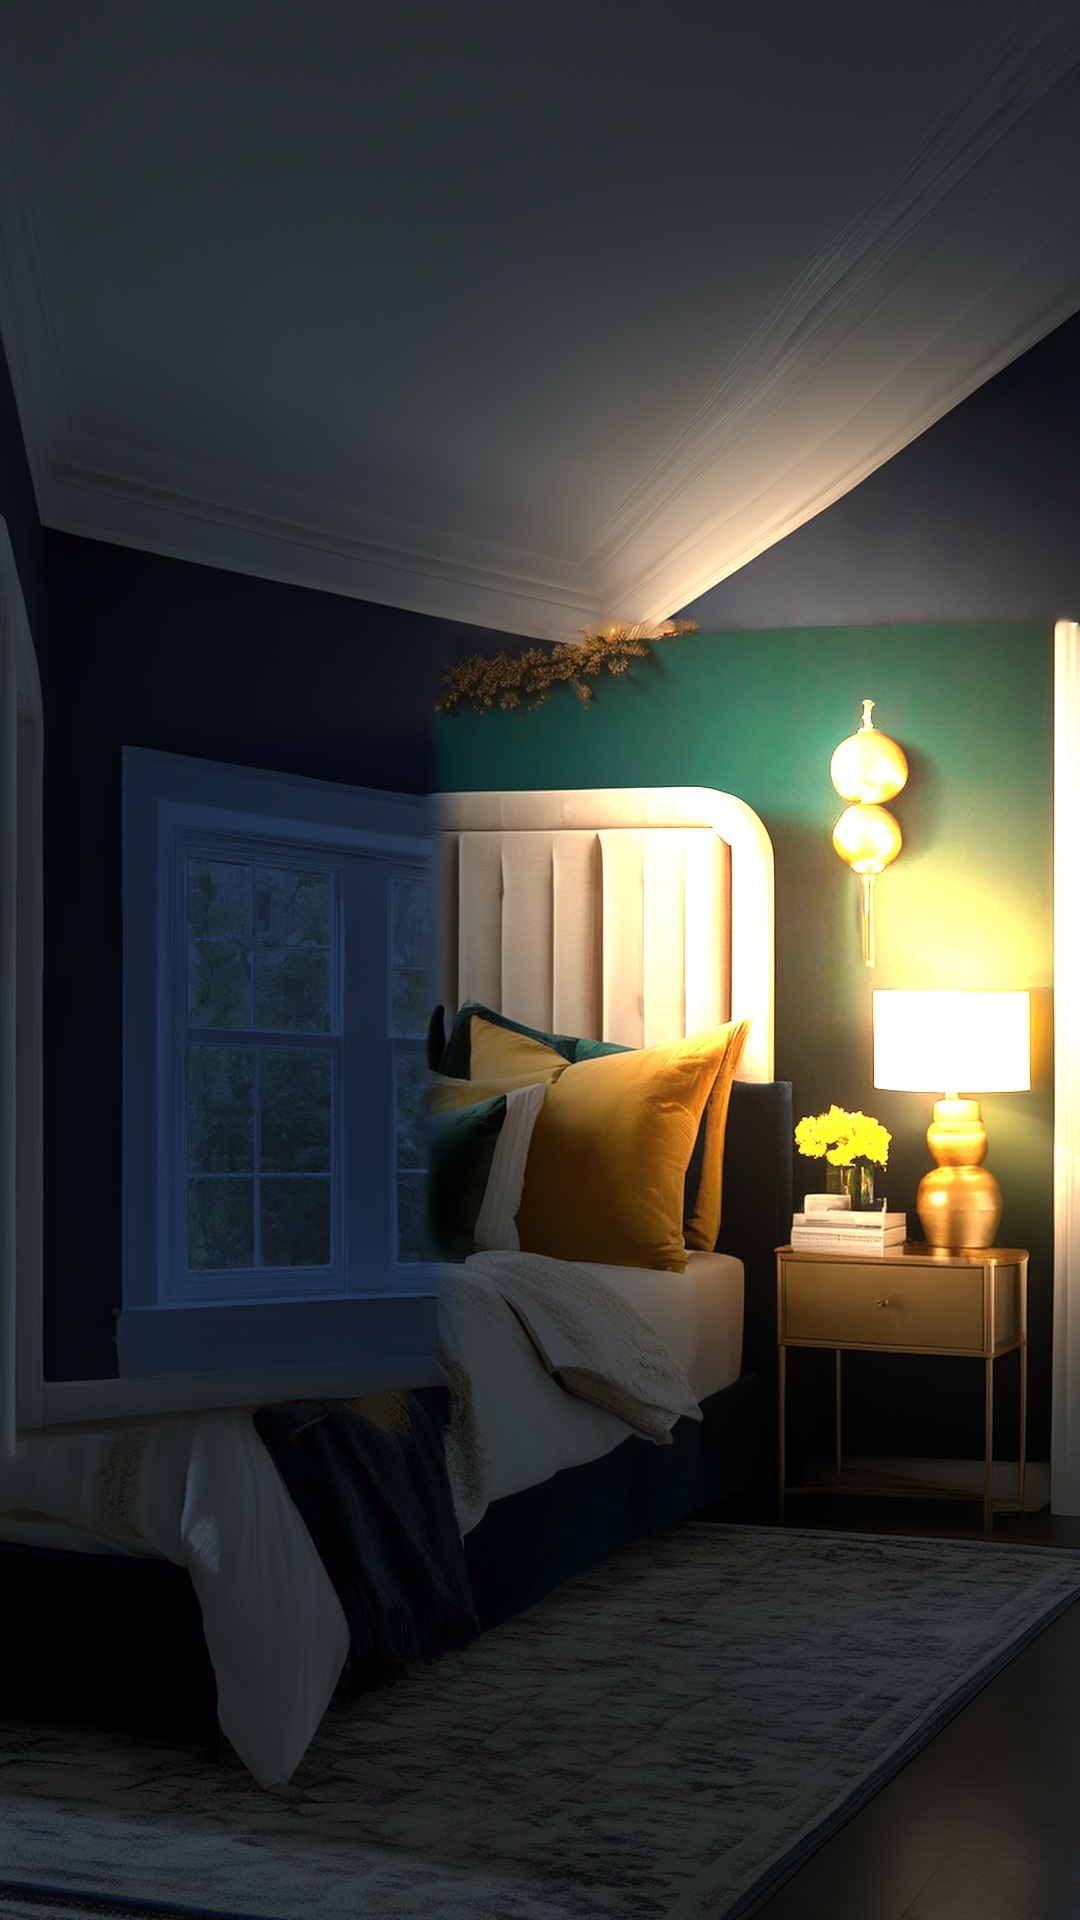
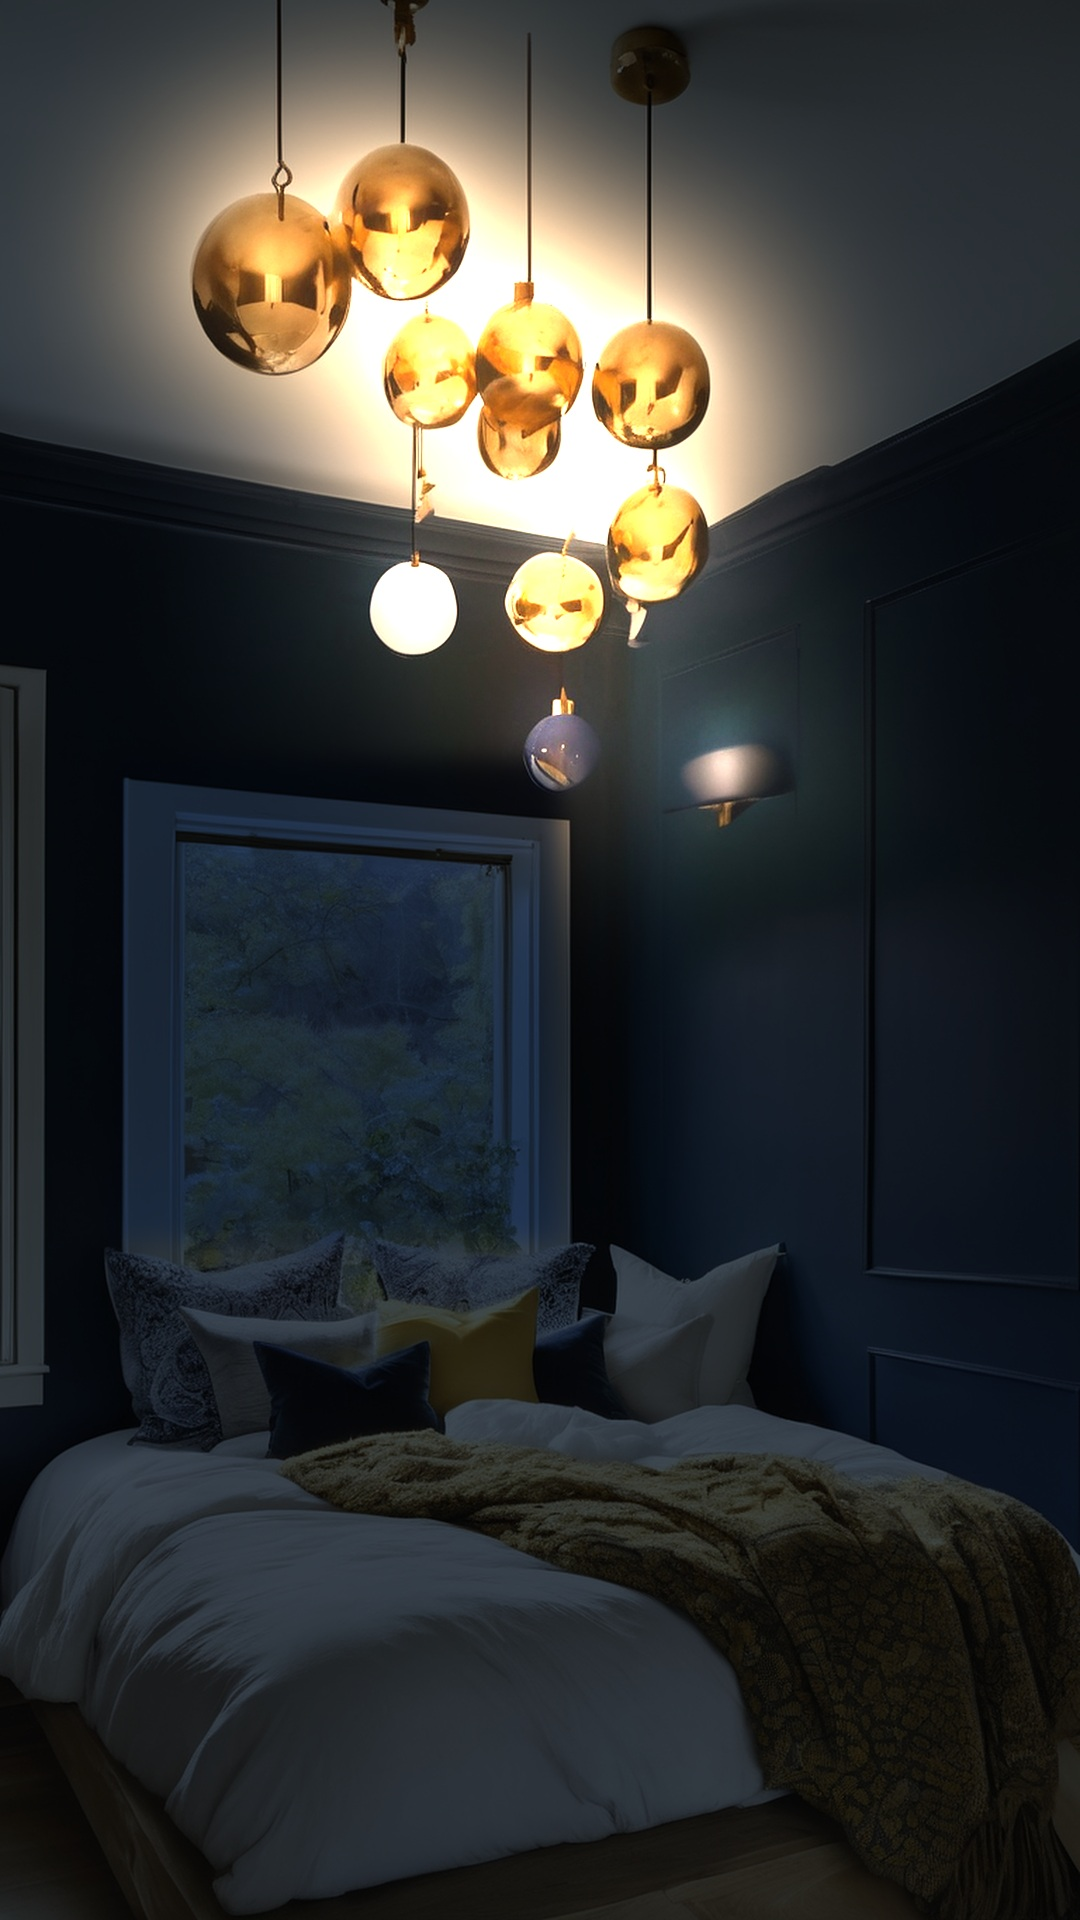
Starry bedroom: grey shell walls, coherent bedroom frame, new labels and transition
Claude-Session: https://claude.ai/code/session_012yCJf1GqUw3HDeCETyk5MU

diff --git a/tezis-reel-starry/reel.html b/tezis-reel-starry/reel.html
@@ -113,8 +113,10 @@ window.render = (t) => {
   // ---- 4. мебель и связи с картиной (18.6 - 26.6)
   if (t >= 18.6 && t < 30.4) {
     const kb = 1.0 + 0.05 * clamp((t - 18.6) / 11.8);
-    h += layer(IMG.emptyBlue, 1, kb);
-    h += layer(IMG.after, inout(clamp((t - 18.6) / 0.9)), kb);
+    // быстрый наезд: ракурс готовой спальни немного другой, поэтому без наложения кадров
+    h += layer(IMG.emptyBlue, 1, kb * (1 + 0.15 * clamp((t - 18.4) / 0.4)));
+    const tr = clamp((t - 18.6) / 0.45);
+    if (t > 18.6) h += layer(IMG.after, tr, kb * (1.12 - 0.12 * ease(tr)));
     // вечер
     if (t > 26.4) h += layer(IMG.night, inout(clamp((t - 26.4) / 1.4)), kb);
     const link = (a, b, img, x, y, tx, ty, txt) => {
@@ -125,7 +127,7 @@ window.render = (t) => {
         + `<svg class="lines" width="1080" height="1920" style="opacity:${p}"><line x1="${tx + 95}" y1="${ty + 190}" x2="${x}" y2="${y}" stroke="#F5F1EA" stroke-width="4" stroke-dasharray="10 9"/></svg>`
         + dot(x, y, p) + tag(tx, ty + 210, txt, p);
     };
-    h += link(19.4, 22.2, IMG.cypress, ...P.headboard, 'как кипарис');
+    h += link(19.4, 22.2, IMG.swirl, ...P.headboard, 'синий, как небо');
     h += link(20.6, 22.4, IMG.village, ...P.floor, 'тёплый, как огни');
     h += link(22.2, 25.8, IMG.star, ...P.lamps, 'звёзды');
     h += link(23.4, 25.9, IMG.moon, ...P.moon, 'луна');

diff --git a/tezis-reel-starry/positions.js b/tezis-reel-starry/positions.js
@@ -2,8 +2,8 @@
 window.POS = {
   old: [[700, 1040, 'голые стены'], [300, 1000, 'окно без отделки'], [420, 1620, 'бетонная стяжка'], [430, 430, 'серый потолок']],
   // [точка x, y, миниатюра x, y]
-  headboard: [648, 783, 110, 330],
-  floor: [891, 1323, 110, 1040],
-  lamps: [950, 1040, 110, 330],
-  moon: [869, 770, 110, 800],
+  headboard: [880, 900, 640, 1150],   // синяя стена
+  floor: [930, 1600, 110, 1250],      // тёплый плед и дерево
+  lamps: [525, 345, 760, 520],        // латунные шары
+  moon: [410, 586, 760, 960],         // белый шар
 };

diff --git a/tezis-reel-starry/prep.py b/tezis-reel-starry/prep.py
@@ -21,7 +21,8 @@ yy, xx = np.mgrid[0:H, 0:W].astype(np.float32)
 night = a * 0.30
 night[..., 0] *= 1.12; night[..., 2] *= 0.85  # BGR: холоднее
 glow = np.zeros_like(a)
-lamps = [(869, 756, 440, 1.2), (869, 837, 400, 1.0), (950, 1040, 380, 1.3)]  # бра и настольная лампа
+import json
+lamps = json.load(open(os.path.join(os.path.dirname(os.path.abspath(__file__)), 'lamps.json')))  # шары-светильники
 for x, y, r, k in lamps:
     d = np.sqrt((xx - x) ** 2 + (yy - y) ** 2)
     g = np.exp(-(d / r) ** 2 * 2.2) * k
@@ -30,7 +31,7 @@ for x, y, r, k in lamps:
     night = night * (1 - core[..., None]) + a * core[..., None] * 1.25
 lit = night + glow * a * 1.15 + glow * 0.10
 # окно - вечерняя синева
-win = np.zeros((H, W), np.float32); cv2.rectangle(win, (115, 735), (445, 1375), 1, -1)
+win = np.zeros((H, W), np.float32); cv2.rectangle(win, (115, 760), (560, 1240), 1, -1)
 win = cv2.GaussianBlur(win, (0, 0), 12)[..., None]
 lit = lit * (1 - win * 0.8) + win * 0.8 * (a * 0.22 * np.array([1.7, 1.0, 0.55]))
 cv2.imwrite(os.path.join(out, 'night.jpg'), np.clip(lit * 255, 0, 255).astype(np.uint8), [cv2.IMWRITE_JPEG_QUALITY, 94])

diff --git a/tezis-reel-starry/VOICEOVER.md b/tezis-reel-starry/VOICEOVER.md
@@ -8,8 +8,8 @@
 | 0:04 | Метки на бетоне, «Черновая отделка» | **Начинаем с нуля: голые стены, бетонная стяжка, серый потолок. Чистый лист.** |
 | 0:08 | Крупно картина, метки на небе и звёздах | **Смотрите, как он раскладывает цвет. Синий занимает почти всё небо, а тёплый жёлтый - только в точках света.** |
 | 0:13.5 | Стены перекрашиваются в синий | **Так и делаем: стены в глубокий синий, известковой краской. Разводы на ней - как мазки кисти.** |
-| 0:18.5 | Появляется мебель, метки «как кипарис», «как огни» | **Стена за кроватью тёмно-зелёная, как кипарис. Латунь и дерево тёплые, как огни деревни.** |
-| 0:22 | Метки «звёзды» и «луна» | **А жёлтый - только в свете: лампа как звезда, а шары над кроватью - луна.** |
+| 0:18.5 | Появляется мебель, метки «синий, как небо», «как огни» | **Стены синие, как небо на картине. Пол и дерево тёплые, как огни деревни.** |
+| 0:22 | Метки «звёзды» и «луна» | **А жёлтый - только в свете: латунные шары как звёзды, белый шар - луна.** |
 | 0:26.5 | Вечер: свет приглушается, светильники горят | **Вечером выключаешь верхний свет - и спальня становится картиной.** |
 | 0:30 | Сравнение «черновая / по Ван Гогу» | **Уютно вышло? Или слишком смело для спальни?** |
 | 0:34 | Рамка со знаком «?» | **Следующую картину выбираете вы. Пишите в комментариях!** |
